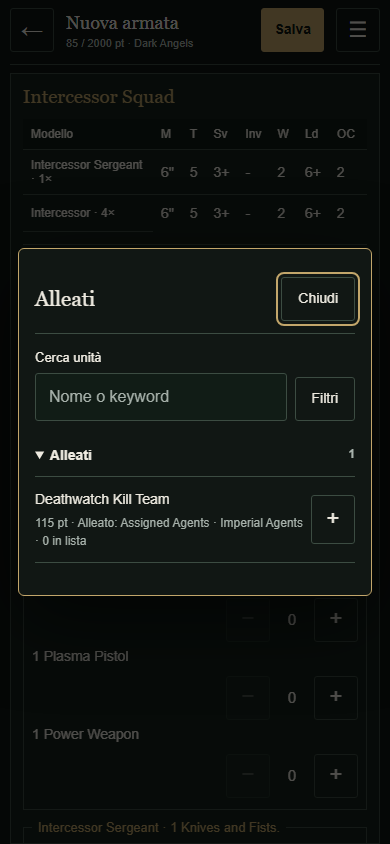
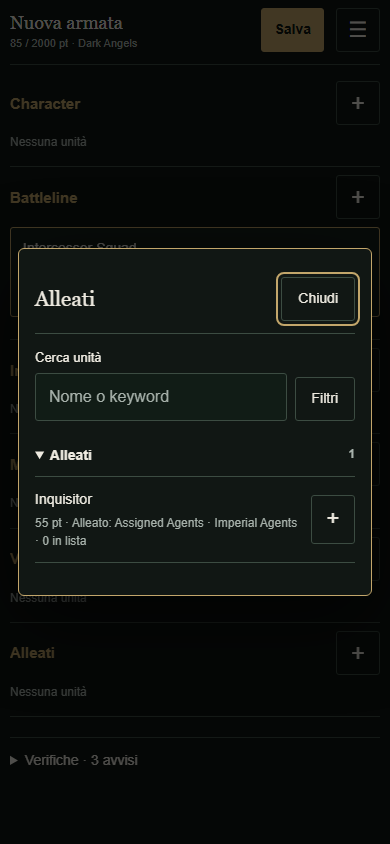
Vincola anche le varianti Agents Deathwatch a Deathwatch Support nei Marines

diff --git a/Cangiolone.com/builder-engine.js b/Cangiolone.com/builder-engine.js
@@ -226,7 +226,7 @@ function beEnhancementsHtml(unit,entry){
 }
 function beAllyRules(){
   const ids=builderUi.army.detachmentIds;
-  return (wbFaction().allies||[]).filter(r=>(!r.detachmentIds.length||r.detachmentIds.some(id=>ids.includes(id)))&&!r.excludedDetachmentIds.some(id=>ids.includes(id)));
+  return (wbFaction().allies||[]).filter(r=>(!r.detachmentIds.length||r.detachmentIds.some(id=>ids.includes(id)))&&!r.excludedDetachmentIds.some(id=>ids.includes(id))).map(rule=>({...rule,unitIds:rule.unitIds.filter(id=>rule.unitDetachmentIds?.[id]===undefined||rule.unitDetachmentIds[id].some(det=>ids.includes(det)))})).filter(rule=>rule.unitIds.length);
 }
 function beAllyRule(id){
   return beAllyRules().filter(r=>r.unitIds.includes(id)).sort((a,b)=>Number(Boolean(b.detachmentIds.length))-Number(Boolean(a.detachmentIds.length)))[0];

diff --git a/Cangiolone.com/builder-automation.php b/Cangiolone.com/builder-automation.php
@@ -481,7 +481,11 @@ function builderBuildAllies(array $catalog): array {
         if ($fid==='ae') $faction['unitIds']=array_values(array_filter($faction['unitIds'],static fn($id)=>!$has(array_column($units,null,'id')[$id],'Ynnari')||$has(array_column($units,null,'id')[$id],'Asuryani')||$has(array_column($units,null,'id')[$id],'Harlequins')));
         $add=static function(string $id,string $name,array $ids,array $extra=[]) use (&$grants) {if ($ids) $grants[]=$extra+['id'=>$id,'name'=>$name,'unitIds'=>$ids,'detachmentIds'=>[],'excludedDetachmentIds'=>[],'points'=>[],'warlord'=>false,'enhancements'=>false,'kind'=>'points'];};
         $dids=static fn(string $name)=>array_column(array_filter($faction['detachments'],static fn($d)=>strcasecmp(str_replace('’',"'",$d['name']),str_replace('’',"'",$name))===0),'id');
-        if ($imperial&&$fid!=='aoi') $add('assigned_agents','Assigned Agents',$select(static fn($u)=>($u['factionId']??'')==='aoi'),['kind'=>'agents','source'=>'https://wahapedia.ru/wh40k11ed/factions/imperial-agents/#Assigned-Agents']);
+        if ($imperial&&$fid!=='aoi') {
+            $requirements=[];
+            if($marine&&$fid!=='sm_deathwatch')foreach($units as $unit)if(($unit['factionId']??'')==='aoi'&&($has($unit,'Deathwatch')||$has($unit,'Kill Team')||preg_match('/Deathwatch|\bWatch Master\b|\bWatch Captain Artemis\b/i',$unit['name'])))$requirements[$unit['id']]=$dids('Deathwatch Support');
+            $add('assigned_agents','Assigned Agents',$select(static fn($u)=>($u['factionId']??'')==='aoi'),['kind'=>'agents','unitDetachmentIds'=>$requirements,'source'=>'https://wahapedia.ru/wh40k11ed/factions/imperial-agents/#Assigned-Agents']);
+        }
         if ($imperial&&$fid!=='qi') $add('freeblades','Freeblades',$select(static fn($u)=>($u['factionId']??'')==='qi'&&!$has($u,'Adeptus Mechanicus')),['kind'=>'knights','source'=>'https://wahapedia.ru/wh40k11ed/factions/imperial-knights/#Freeblades']);
         if ($imperial&&$fid!=='tl') $add('titanic_support','Titanic Support',$select(static fn($u)=>($u['factionId']??'')==='tl'),['kind'=>'titan','source'=>'https://wahapedia.ru/wh40k11ed/factions/adeptus-titanicus/']);
         if (in_array($fid,$chaos,true)&&$fid!=='qt') $add('dreadblades','Dreadblades',$select(static fn($u)=>($u['factionId']??'')==='qt'&&!$has($u,'Damned')&&!$has($u,'Heretic Astartes')),['kind'=>'knights','source'=>'https://wahapedia.ru/wh40k11ed/factions/chaos-knights/#Dreadblades']);
@@ -518,7 +522,9 @@ function builderBuildAllies(array $catalog): array {
     return $factions;
 }
 function builderActiveAllyRules(array $faction,array $detachments): array {
-    return array_values(array_filter($faction['allies']??[],static fn($r)=>(!$r['detachmentIds']||array_intersect($detachments,$r['detachmentIds']))&&!array_intersect($detachments,$r['excludedDetachmentIds'])));
+    $rules=array_values(array_filter($faction['allies']??[],static fn($r)=>(!$r['detachmentIds']||array_intersect($detachments,$r['detachmentIds']))&&!array_intersect($detachments,$r['excludedDetachmentIds'])));
+    foreach($rules as &$rule)$rule['unitIds']=array_values(array_filter($rule['unitIds'],static fn($id)=>!isset($rule['unitDetachmentIds'][$id])||array_intersect($detachments,$rule['unitDetachmentIds'][$id])));
+    unset($rule);return array_values(array_filter($rules,static fn($r)=>$r['unitIds']));
 }
 function builderAllyIssues(array $catalog,array $army,array $prices): array {
     if (($catalog['featuresVersion']??0)<3) return [];

diff --git a/tests/allies-model.php b/tests/allies-model.php
@@ -22,7 +22,8 @@ foreach([
     ['knight','Knight','qi','Imperial Knights'],['rangers','Skitarii Rangers','adm','Adeptus Mechanicus'],['rangers_alias','Skitarii Rangers','qi','Imperial Knights, Adeptus Mechanicus'],
     ['chaos_knight','Chaos Knight','qt','Chaos Knights'],['cultist','Cultists','csm','Damned'],['cultist_alias','Cultists','qt','Chaos Knights, Damned'],
     ['daemon','Daemon','cd','Legiones Daemonica'],['lord','Chaos Lord','csm','Heretic Astartes, Character'],['lord_alias','Chaos Lord','cd','Legiones Daemonica, Heretic Astartes, Character'],
-    ['marine','Marine','sm','Adeptus Astartes'],['deathwatch','DW Squad','sm','Adeptus Astartes, Deathwatch, Kill Team']
+    ['marine','Marine','sm','Adeptus Astartes'],['deathwatch','DW Squad','sm','Adeptus Astartes, Deathwatch, Kill Team'],
+    ['dw_agent','Deathwatch Kill Team','aoi','Agents of the Imperium, Retinue, Kill Team'],['dw_watch','Watch Master','aoi','Agents of the Imperium, Character'],['agent','Inquisitor','aoi','Agents of the Imperium, Character']
 ] as $row)$add(...$row);
 foreach([
     ['gc',['cult','guard_alias','lictor_alias','forbidden'],['brood'=>'Brood Brother Auxilia','final'=>'Final Day']],
@@ -48,6 +49,13 @@ checkAlly(count(builderValidateV2($catalog,$army('dru','corsair_alias',['reapers
 $over=$army('dru','troupe_alias');$over['entries'][0]['manualPoints']=501;
 checkAlly(count(builderValidateV2($catalog,$over)['errors'])>0,'Host alias bypasses ally points cap');
 checkAlly(builderValidateV2($catalog,$army('sm_deathwatch','deathwatch'))['errors']===[],'Native Deathwatch army lost its units');
+foreach(['dw_agent','dw_watch'] as $unit){
+    checkAlly(count(builderValidateV2($catalog,$army('sm_dark_angels',$unit))['errors'])>0,'Agent variant bypasses Support');
+    checkAlly(builderValidateV2($catalog,$army('sm_dark_angels',$unit,['support']))['errors']===[],'Agent variant not unlocked');
+}
+checkAlly(builderValidateV2($catalog,$army('sm_dark_angels','agent'))['errors']===[],'Other Imperial Agent requires Support');
+$quota=$army('sm_dark_angels','dw_agent',['support']);$quota['entries']=array_map(static fn($n)=>array_replace($quota['entries'][0],['entryId'=>'copy'.$n]),[1,2,3]);
+checkAlly((bool)array_filter(builderValidateV2($catalog,$quota)['errors'],static fn($e)=>str_contains($e,'Assigned Agents')),'Assigned Agents quota was bypassed');
 // Simulate an old imported payload with a leaked native ID. Read/save repair
 // permissions at runtime without rewriting catalogs or existing army entries.
 $old=$catalog;$old['factions'][0]['unitIds'][]='guard_alias';

diff --git a/docs/builder-alleati.md b/docs/builder-alleati.md
@@ -80,3 +80,9 @@ Il catalogo del pulsante + separa tutte le unità non native nella categoria All
 Tutte le regole nelle schede, comprese quelle di wargear, Enhancement e Upgrade, sono ora sezioni individuali richiudibili. Quelle brevi partono aperte, quelle con testo oltre450caratteri partono chiuse. I bonus mantengono il colore distinto; Altre regole rimane una sezione esterna separata. Stesso comportamento su PC e mobile, Build e Play.
 
 Suite completa122 test passati, inclusi test sul catalogo esterno. Verifica Edge390/1440 con popup reali: Assigned Agents separati dai ruoli nativi, attivazione/rimozione di Deathwatch Support e apertura/chiusura di entrambe le lunghezze di regola. I dati delle schede di prova rimangono fuori dai cataloghi salvati. File applicativi della modifica: builder-workbench.js e builder.css. Per il rilascio il pacchetto FTPS locale del builder viene aggiornato a6 file, conservando i5 delle correzioni precedenti e aggiungendo builder.css; non è richiesta una reimportazione del catalogo.
+
+## Vincolo esplicito Deathwatch Support per tutte le varianti nei Marines
+
+Su successiva richiesta dell'utente, nelle liste Space Marines di un altro capitolo il filtro Deathwatch Support si applica anche alle varianti Imperial Agents Deathwatch, Kill Team, Watch Master e Watch Captain Artemis. Il precedente comportamento lasciava queste varianti visibili tramite Assigned Agents; ora non compaiono né nel catalogo completo, né nei popup mobile, né tramite ricerca senza il distaccamento. Selezionandolo tornano in Alleati; rimuovendolo spariscono di nuovo. Le unità native di un esercito Deathwatch restano disponibili.
+
+Questo è il vincolo aggiuntivo di catalogo richiesto per il builder, applicato anche alla validazione del salvataggio. Le unità Imperial Agents continuano a essere contate nel loro unico contingente Assigned Agents, con le quote preesistenti: non viene creato un secondo contingente che raddoppia le quote. Gli Imperial Agents diversi dalle varianti Deathwatch restano disponibili. La correzione funziona alla lettura dei cataloghi già importati, senza reimportazione o cancellazione delle liste.
